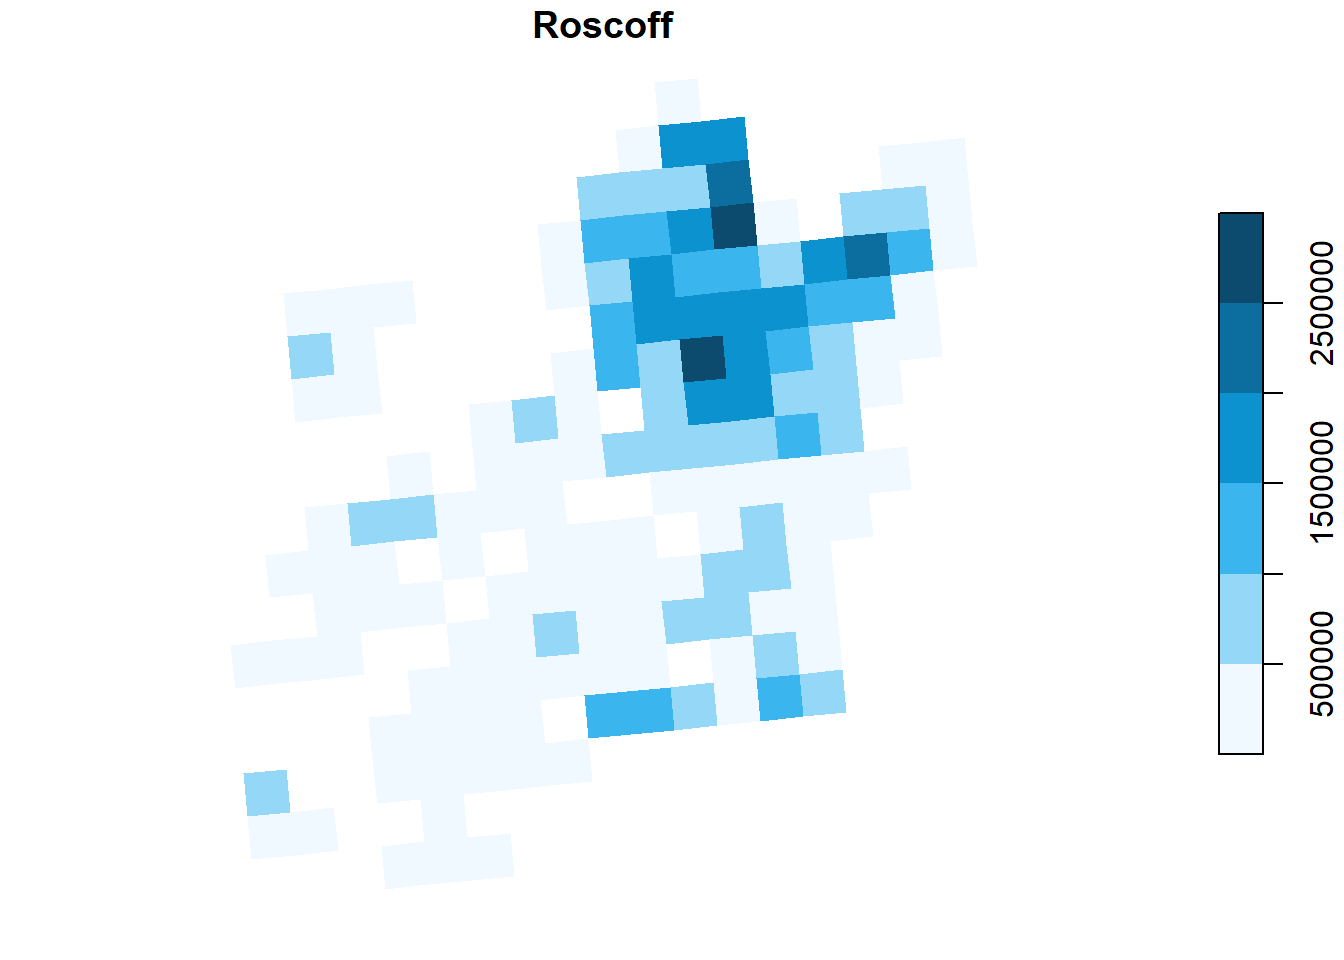
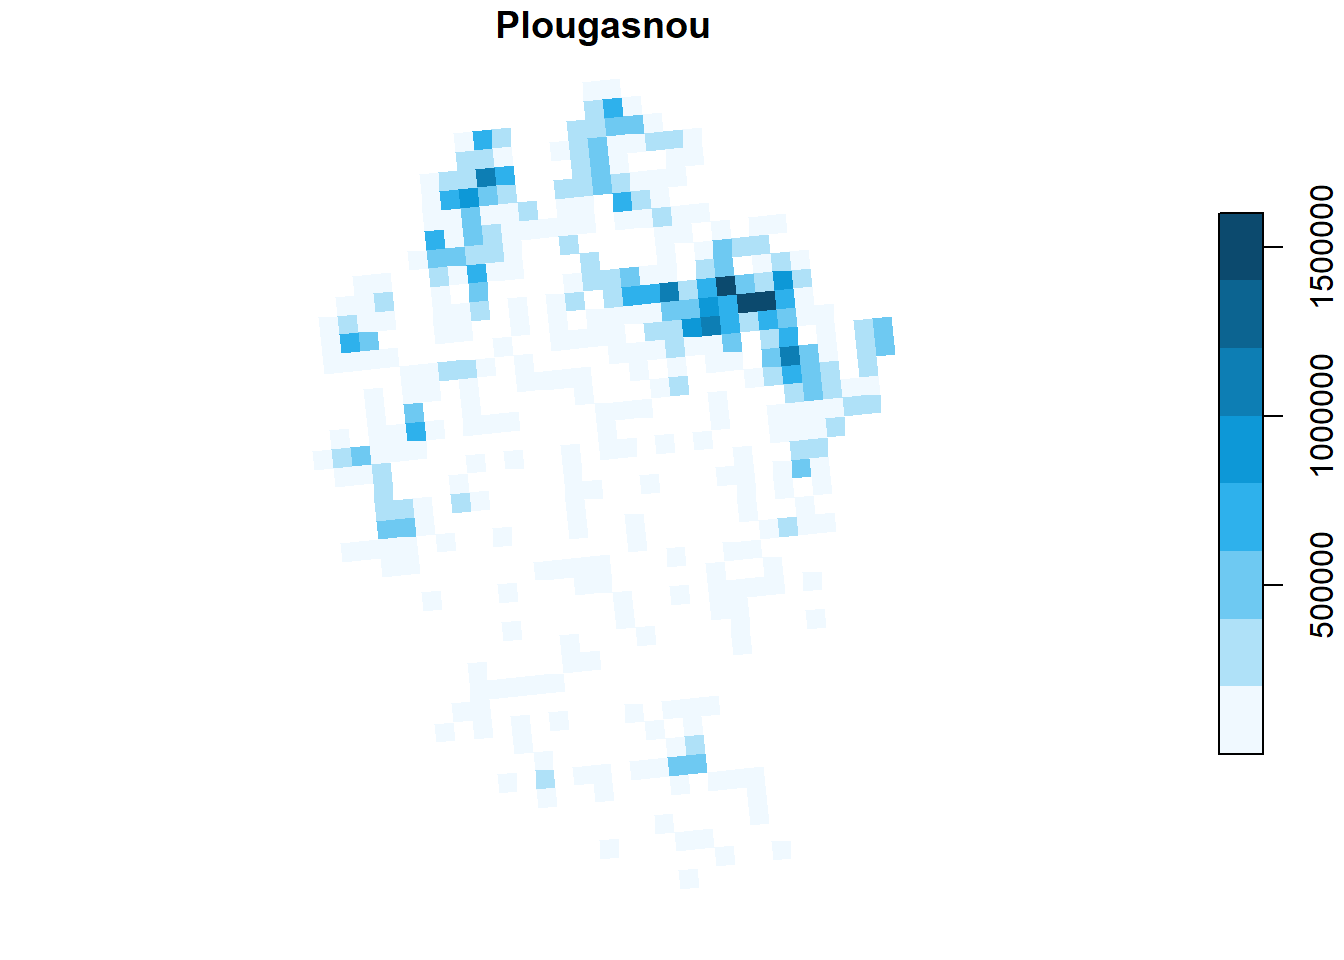
correction couleurs barplot

diff --git a/docs/analyse.html b/docs/analyse.html
@@ -275,8 +275,8 @@ $(document).ready(function () {
 </div>
 
 
-<div id="analyse-de-lintervisibilité" class="section level2">
-<h2>Analyse de l’intervisibilité</h2>
+<div id="lanalyse-de-lintervisibilité" class="section level2">
+<h2>L’Analyse de l’intervisibilité</h2>
 <p>Dans notre analyse, le <strong>MNT</strong> a permis de prouver une
 différence majeure entre les deux communes.</p>
 <p>Même si la distance à la côte est la même, la topographie diffère :
@@ -356,7 +356,7 @@ taux_plougasnou &lt;- calc_taux(visib_plougasnou)
 
 barplot(c(taux_roscoff, taux_plougasnou),
         names.arg = c(&quot;Roscoff&quot;, &quot;Plougasnou&quot;),
-        col = c(&quot;#2196F3&quot;, &quot;#FF9800&quot;),
+        col = c(&quot;#FF9800&quot;, &quot;#2196F3&quot;),
         main = &quot;Taux de visibilité du parc éolien par commune&quot;,
         ylab = &quot;% du territoire avec vue sur le parc&quot;,
         ylim = c(0, 100),
@@ -373,8 +373,7 @@ l’image de marque de la cité.</p>
 </div>
 <div id="carte-du-niveau-de-vie" class="section level2">
 <h2>Carte du niveau de vie</h2>
-<pre class="r"><code># Chargement depuis Documents (hors projet)
-grille &lt;- st_read(&quot;C:/Users/damie/Documents/carreaux_200m_met.gpkg&quot;, quiet = TRUE)
+<pre class="r"><code>grille &lt;- st_read(&quot;C:/Users/damie/Documents/carreaux_200m_met.gpkg&quot;, quiet = TRUE)
 
 grille_proj &lt;- st_transform(grille, 2154)
 zone_etude_proj &lt;- st_transform(zone_etude, 2154)
@@ -394,17 +393,7 @@ plot(st_geometry(zone_etude_proj), add = TRUE, border = &quot;black&quot;, lwd =
 <p><img src="analyse_files/figure-html/filosofi-1.png" alt="" width="672" /></p>
 <pre class="r"><code>par(mfrow = c(1, 2))
 
-roscoff_grille &lt;- grille_communes[!is.na(grille_communes$nom_officiel) &amp;
-                                   grille_communes$nom_officiel == &quot;Roscoff&quot;, ]
-plot(roscoff_grille[&quot;ind_snv&quot;],
-     main = &quot;Roscoff&quot;,
-     pal = colorRampPalette(c(&quot;#f0f9ff&quot;, &quot;#0ea5e9&quot;, &quot;#0c4a6e&quot;)),
-     border = NA,
-     key.pos = 4)
-plot(st_geometry(zone_etude_proj[zone_etude_proj$nom_officiel == &quot;Roscoff&quot;, ]),
-     add = TRUE, border = &quot;black&quot;, lwd = 2)</code></pre>
-<p><img src="analyse_files/figure-html/filosofi-2.png" alt="" width="672" /></p>
-<pre class="r"><code>plougasnou_grille &lt;- grille_communes[!is.na(grille_communes$nom_officiel) &amp;
+plougasnou_grille &lt;- grille_communes[!is.na(grille_communes$nom_officiel) &amp;
                                       grille_communes$nom_officiel == &quot;Plougasnou&quot;, ]
 plot(plougasnou_grille[&quot;ind_snv&quot;],
      main = &quot;Plougasnou&quot;,
@@ -412,6 +401,16 @@ plot(plougasnou_grille[&quot;ind_snv&quot;],
      border = NA,
      key.pos = 4)
 plot(st_geometry(zone_etude_proj[zone_etude_proj$nom_officiel == &quot;Plougasnou&quot;, ]),
+     add = TRUE, border = &quot;black&quot;, lwd = 2)</code></pre>
+<p><img src="analyse_files/figure-html/filosofi-2.png" alt="" width="672" /></p>
+<pre class="r"><code>roscoff_grille &lt;- grille_communes[!is.na(grille_communes$nom_officiel) &amp;
+                                   grille_communes$nom_officiel == &quot;Roscoff&quot;, ]
+plot(roscoff_grille[&quot;ind_snv&quot;],
+     main = &quot;Roscoff&quot;,
+     pal = colorRampPalette(c(&quot;#f0f9ff&quot;, &quot;#0ea5e9&quot;, &quot;#0c4a6e&quot;)),
+     border = NA,
+     key.pos = 4)
+plot(st_geometry(zone_etude_proj[zone_etude_proj$nom_officiel == &quot;Roscoff&quot;, ]),
      add = TRUE, border = &quot;black&quot;, lwd = 2)</code></pre>
 <p><img src="analyse_files/figure-html/filosofi-3.png" alt="" width="672" /></p>
 <pre class="r"><code>par(mfrow = c(1, 1))</code></pre>

diff --git a/docs/zones.html b/docs/zones.html
@@ -359,7 +359,7 @@ plot(st_geometry(zone_etude),
      main = &quot;Zone d&#39;étude : Roscoff et Plougasnou&quot;)
 legend(&quot;topright&quot;, legend = c(&quot;Plougasnou&quot;, &quot;Roscoff&quot;),
        fill = c(&quot;#2196F3&quot;, &quot;#FF9800&quot;))</code></pre>
-<p><img src="zones_files/figure-html/communes-1.png" alt="" width="672" /></p>
+<p><img src="Zones_files/figure-html/communes-1.png" alt="" width="672" /></p>
 </div>
 <div id="b.-téléchargement-du-carreau-filosofi-insee"
 class="section level2">
@@ -385,7 +385,7 @@ plot(st_geometry(zone_etude_proj),
      add = TRUE)
 legend(&quot;topright&quot;, legend = c(&quot;Plougasnou&quot;, &quot;Roscoff&quot;),
        fill = c(&quot;#2196F3&quot;, &quot;#FF9800&quot;))</code></pre>
-<p><img src="zones_files/figure-html/filosofi-1.png" alt="" width="672" /></p>
+<p><img src="Zones_files/figure-html/filosofi-1.png" alt="" width="672" /></p>
 </div>
 <div id="c.-jointure-spatiale-sur-les-communes" class="section level2">
 <h2>C. Jointure spatiale sur les communes</h2>
@@ -403,12 +403,12 @@ plot(st_geometry(grille_communes[!is.na(grille_communes$nom_officiel) &amp;
 legend(&quot;topright&quot;, 
        legend = c(&quot;Plougasnou&quot;, &quot;Roscoff&quot;),
        fill = c(&quot;#bfdbfe&quot;, &quot;#fed7aa&quot;))</code></pre>
-<p><img src="zones_files/figure-html/jointure-1.png" alt="" width="672" /></p>
+<p><img src="Zones_files/figure-html/jointure-1.png" alt="" width="672" /></p>
 </div>
 <div id="d.-schéma-du-géotraitement" class="section level2">
 <h2>D. Schéma du géotraitement</h2>
-<div class="grViz html-widget html-fill-item" id="htmlwidget-098f82dbf82f3b93f5d1" style="width:672px;height:480px;"></div>
-<script type="application/json" data-for="htmlwidget-098f82dbf82f3b93f5d1">{"x":{"diagram":"\ndigraph geotraitement {\n  graph [layout = dot, rankdir = TB, fontname = \"Helvetica\"]\n  node [fontname = \"Helvetica\", fontsize = 11]\n\n  Start [label = \"Analyse Géotraitement\nPlougasnou vs Roscoff\", shape = oval, style = filled, fillcolor = \"#fdf4ff\", color = \"#e879f9\"]\n  BranchA [label = \"Branche A:\nAnalyse Physique\", shape = rectangle, style = filled, fillcolor = \"#f8fafc\", color = \"#94a3b8\"]\n  BranchB [label = \"Branche B:\nAnalyse Socio-Économique\", shape = rectangle, style = filled, fillcolor = \"#f8fafc\", color = \"#94a3b8\"]\n  InputA1 [label = \"INPUT Raster:\nMNT RGE Alti\nvia happign\", shape = rectangle, style = filled, fillcolor = \"#eef2ff\", color = \"#818cf8\"]\n  InputA2 [label = \"INPUT Vecteur:\nEmplacement Éoliennes\nPoints\", shape = rectangle, style = filled, fillcolor = \"#eef2ff\", color = \"#818cf8\"]\n  TraitA [label = \"TRAITEMENT terra:\nCalcul Viewshed\nBassin de visibilité\", shape = rectangle, style = filled, fillcolor = \"#f0fdfa\", color = \"#2dd4bf\"]\n  OutputA [label = \"OUTPUT:\nRaster Visibilité\nPixel: 1=vu, 0=non-vu\", shape = rectangle, style = filled, fillcolor = \"#f5f3ff\", color = \"#a78bfa\"]\n  InputB1 [label = \"INPUT Vecteur:\nCarroyage Filosofi 200m\nINSEE\", shape = rectangle, style = filled, fillcolor = \"#eef2ff\", color = \"#818cf8\"]\n  InputB2 [label = \"INPUT Vecteur:\nLimites Communales\nvia happign\", shape = rectangle, style = filled, fillcolor = \"#eef2ff\", color = \"#818cf8\"]\n  TraitB1 [label = \"TRAITEMENT sf:\nDécoupage\nst_intersection\", shape = rectangle, style = filled, fillcolor = \"#f0fdfa\", color = \"#2dd4bf\"]\n  TraitB2 [label = \"Jointure Attributaire\nleft_join\nRevenus + Résidences sec.\", shape = rectangle, style = filled, fillcolor = \"#f0fdfa\", color = \"#2dd4bf\"]\n  OutputB [label = \"OUTPUT:\nCarroyage Enrichi\nDonnées Socio-Éco\", shape = rectangle, style = filled, fillcolor = \"#f5f3ff\", color = \"#a78bfa\"]\n  Convergence [label = \"Convergence:\nSynthèse Spatiale\", shape = rectangle, style = filled, fillcolor = \"#fff7ed\", color = \"#fb923c\"]\n  Cross [label = \"CROISEMENT:\nSuperposition\nRaster Visibilité +\nCarroyage Enrichi\", shape = rectangle, style = filled, fillcolor = \"#fff7ed\", color = \"#fb923c\"]\n  Final [label = \"RÉSULTAT FINAL:\nCarte Synthétique\nVisibilité + Résidences sec.\n+ Revenus\", shape = oval, style = filled, fillcolor = \"#fdf4ff\", color = \"#e879f9\"]\n\n  Start -> BranchA\n  Start -> BranchB\n  BranchA -> InputA1\n  BranchA -> InputA2\n  InputA1 -> TraitA\n  InputA2 -> TraitA\n  TraitA -> OutputA\n  BranchB -> InputB1\n  BranchB -> InputB2\n  InputB1 -> TraitB1\n  InputB2 -> TraitB1\n  TraitB1 -> TraitB2\n  TraitB2 -> OutputB\n  OutputA -> Convergence\n  OutputB -> Convergence\n  Convergence -> Cross\n  Cross -> Final\n}\n","config":{"engine":"dot","options":null}},"evals":[],"jsHooks":[]}</script>
+<div class="grViz html-widget html-fill-item" id="htmlwidget-9102eeac5db5136b4ff4" style="width:672px;height:480px;"></div>
+<script type="application/json" data-for="htmlwidget-9102eeac5db5136b4ff4">{"x":{"diagram":"\ndigraph geotraitement {\n  graph [layout = dot, rankdir = TB, fontname = \"Helvetica\"]\n  node [fontname = \"Helvetica\", fontsize = 11]\n\n  Start [label = \"Analyse Géotraitement\nPlougasnou vs Roscoff\", shape = oval, style = filled, fillcolor = \"#fdf4ff\", color = \"#e879f9\"]\n  BranchA [label = \"Branche A:\nAnalyse Physique\", shape = rectangle, style = filled, fillcolor = \"#f8fafc\", color = \"#94a3b8\"]\n  BranchB [label = \"Branche B:\nAnalyse Socio-Économique\", shape = rectangle, style = filled, fillcolor = \"#f8fafc\", color = \"#94a3b8\"]\n  InputA1 [label = \"INPUT Raster:\nMNT RGE Alti\nvia happign\", shape = rectangle, style = filled, fillcolor = \"#eef2ff\", color = \"#818cf8\"]\n  InputA2 [label = \"INPUT Vecteur:\nEmplacement Éoliennes\nPoints\", shape = rectangle, style = filled, fillcolor = \"#eef2ff\", color = \"#818cf8\"]\n  TraitA [label = \"TRAITEMENT terra:\nCalcul Viewshed\nBassin de visibilité\", shape = rectangle, style = filled, fillcolor = \"#f0fdfa\", color = \"#2dd4bf\"]\n  OutputA [label = \"OUTPUT:\nRaster Visibilité\nPixel: 1=vu, 0=non-vu\", shape = rectangle, style = filled, fillcolor = \"#f5f3ff\", color = \"#a78bfa\"]\n  InputB1 [label = \"INPUT Vecteur:\nCarroyage Filosofi 200m\nINSEE\", shape = rectangle, style = filled, fillcolor = \"#eef2ff\", color = \"#818cf8\"]\n  InputB2 [label = \"INPUT Vecteur:\nLimites Communales\nvia happign\", shape = rectangle, style = filled, fillcolor = \"#eef2ff\", color = \"#818cf8\"]\n  TraitB1 [label = \"TRAITEMENT sf:\nDécoupage\nst_intersection\", shape = rectangle, style = filled, fillcolor = \"#f0fdfa\", color = \"#2dd4bf\"]\n  TraitB2 [label = \"Jointure Attributaire\nleft_join\nRevenus + Résidences sec.\", shape = rectangle, style = filled, fillcolor = \"#f0fdfa\", color = \"#2dd4bf\"]\n  OutputB [label = \"OUTPUT:\nCarroyage Enrichi\nDonnées Socio-Éco\", shape = rectangle, style = filled, fillcolor = \"#f5f3ff\", color = \"#a78bfa\"]\n  Convergence [label = \"Convergence:\nSynthèse Spatiale\", shape = rectangle, style = filled, fillcolor = \"#fff7ed\", color = \"#fb923c\"]\n  Cross [label = \"CROISEMENT:\nSuperposition\nRaster Visibilité +\nCarroyage Enrichi\", shape = rectangle, style = filled, fillcolor = \"#fff7ed\", color = \"#fb923c\"]\n  Final [label = \"RÉSULTAT FINAL:\nCarte Synthétique\nVisibilité + Résidences sec.\n+ Revenus\", shape = oval, style = filled, fillcolor = \"#fdf4ff\", color = \"#e879f9\"]\n\n  Start -> BranchA\n  Start -> BranchB\n  BranchA -> InputA1\n  BranchA -> InputA2\n  InputA1 -> TraitA\n  InputA2 -> TraitA\n  TraitA -> OutputA\n  BranchB -> InputB1\n  BranchB -> InputB2\n  InputB1 -> TraitB1\n  InputB2 -> TraitB1\n  TraitB1 -> TraitB2\n  TraitB2 -> OutputB\n  OutputA -> Convergence\n  OutputB -> Convergence\n  Convergence -> Cross\n  Cross -> Final\n}\n","config":{"engine":"dot","options":null}},"evals":[],"jsHooks":[]}</script>
 </div>
 <div id="e.-le-format-geopackage-.gpkg" class="section level2">
 <h2>E. Le format GeoPackage (.gpkg)</h2>